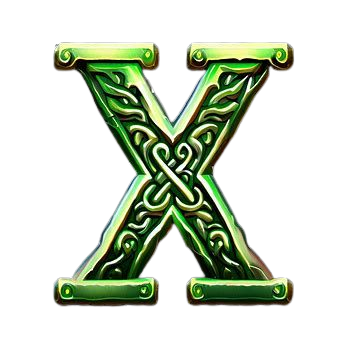
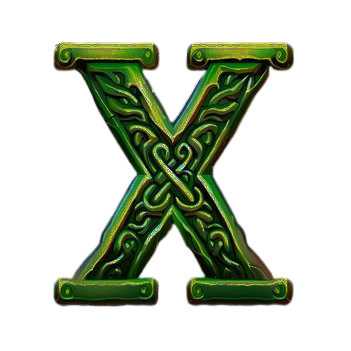
alter symbol colours

Changed region(s): [[0.1425, 0.114, 0.8262, 0.8547]]

diff --git a/src/code/backend/fakeAPI.ts b/src/code/backend/fakeAPI.ts
@@ -1,5 +1,5 @@
 import { BackendReelCalculator } from "./backendReelCalculator";
-import { Request, Response } from "../common/types";
+import { Request, Response, CheckReelResult, WinResult } from "../common/types";
 import { config } from "../common/config";
 import { slotSymbolMap, winMultiplierMap } from "../common/consts";
 
@@ -35,14 +35,15 @@ export class FakeAPI {
                     const reelIndexes = this.getNewReelPositions();
                     const win = this.checkForWin(reelIndexes, request.bet);
 
-                    const newBalance = this.balance - request.bet + win;
+                    const newBalance = this.balance - request.bet + win.totalCount;
                     this.balance = newBalance;
 
-                    response = {
+                    response = { // instead of passing reelIndexes, pass the visible symbols in a 2D array of SymbolReferences, which include symbol and the payline index
                         "action": "update",
                         "spin-result": {
                             "reelIndexes": reelIndexes,
-                            "win": win,
+                            "win": win.totalCount > 0 ? win.totalCount : undefined,
+                            "winningSymbolIndexes": win.totalCount > 0 ? win.winningSymbolIndexes : undefined,
                         },
                         "balance": newBalance,
                     }
@@ -74,7 +75,7 @@ export class FakeAPI {
     }
 
     // TDO: different symbols have different win multipliers
-    private checkForWin(reelIndexes: number[], bet: number): number { // test function
+    private checkForWin(reelIndexes: number[], bet: number): WinResult { // test function
         const reels: number[][] = this.reelCalculator.getVisibleSymbols(reelIndexes);
         reels.forEach((reel) => {
             console.log("");
@@ -85,10 +86,13 @@ export class FakeAPI {
         })
 
         let totalCount = 0;
+        let totalWinningSymbolIndexes: number[][] = [];
+
         for (let i = 0; i < reels[0].length; i++) {
             const symbol = reels[0][i];
             let count = 0;
             let fullReelIndex = 0;
+            let winningSymbolIndexes: number[][] = [];
 
             let skip = false;
             for (let k = 0; k < i; k++) {
@@ -104,9 +108,12 @@ export class FakeAPI {
             for (let j = 0; j < reels.length; j++) {
                 const reel = reels[j];
                 const result = this.checkReel(reel, symbol);
-                if (result > 0) {
-                    count += result;
+                if (result.count > 0) {
+                    count += result.count;
                     fullReelIndex = j;
+                    result.symbolIndex.forEach((symbolIndex) => {
+                        winningSymbolIndexes.push([symbolIndex]);
+                    });
                 } else {
                     break;
                 }
@@ -118,12 +125,10 @@ export class FakeAPI {
                 totalCount += count;
                 console.log("count * multiplier:", count);
 
-                // TODO: add the winning symbols to some array, to highlight them
-                // how are the winning symbols referenced?
+                totalWinningSymbolIndexes = totalWinningSymbolIndexes.concat(winningSymbolIndexes);
 
-                // by the reel and position on that reel?
-                // a 2d array with an array for each reel
-                // eg. [[0], [0], [1], [0, 2,]] would mean that the first reel has a winning symbol at position 0
+                // TODO: add the winning symbols to 2d array
+                // a 2d array of SymbolReference objects, where the object has a reel index and a payline index
             }
         }
 
@@ -131,16 +136,28 @@ export class FakeAPI {
 
         totalCount *= winMultiplier;
         console.log(totalCount);
-        return totalCount;        
+        console.log(totalWinningSymbolIndexes);
+
+        return {
+            totalCount: totalCount,
+            winningSymbolIndexes: totalWinningSymbolIndexes,    
+        } satisfies WinResult;   
     }
 
-    private checkReel(reel: number[], symbol: number): number {
+    private checkReel(reel: number[], symbol: number): CheckReelResult {
         let count = 0;
-        reel.forEach((reelSymbol) => {
-            if (reelSymbol === symbol) {
+        const winningSymbols: number[] = [];
+
+        for (let i = 0; i < reel.length; i++) {
+            if (reel[i] === symbol) {
                 count++;
+                winningSymbols.push(i);
             }
-        })
-        return count;
+        }
+
+        return {
+            count: count,
+            symbolIndex: winningSymbols,
+        } satisfies CheckReelResult;
     }
 }

diff --git a/src/code/components/slotMachine.ts b/src/code/components/slotMachine.ts
@@ -89,12 +89,47 @@ export class SlotMachine extends Container {
 
         //this.currentState = SlotMachineState.Spinning;
  
-        const reelIndexes = await this.requestSpin();
+        const updateResponse = await this.requestSpin();
+        const result = updateResponse["spin-result"];
+        const reelIndexes = result.reelIndexes;
         if (!reelIndexes) {
             return;
         }
 
         const reelSymbols = this.calculateReelSymbols(reelIndexes);
+
+        // TODO: pass win ammount to UI
+
+        const winningSymbolIndexes = result.winningSymbolIndexes;
+
+        // how to get reel to understand which symbols are winning?
+        // can pass in 2d array with undefined for non winning symbols
+        
+        // have to modify array before passing it to calculateReelSymbols
+
+        // how do you let reel know if there are multiple winning lines?
+        // In that case, the lines need to pulsate in alternation
+        // so they need to be stored separately
+
+        // in that case, you can have a Symbol Class
+        // that has a winning line index
+        // and a winning line index can be undefined
+
+        // type Symbol {
+            // symbol: number;
+            // winningLineIndex: number | undefined;
+        //}
+
+        // you pass reel an array of symbols
+
+
+
+        // for each reel symbol, you check if it is in a winning line
+        // create a new symbol object with the winning line index
+        // push that to the new array
+
+
+        // TODO: pass in winning symbols
         this.reels.forEach((reel, index) => {
             reel.spin(reelSymbols[index]);
         });
@@ -119,7 +154,7 @@ export class SlotMachine extends Container {
         return reelSymbols;
     }
 
-    private async requestSpin(): Promise<number[]> {  
+    private async requestSpin(): Promise<UpdateResponse> {  
         const request: Request = {
             action: "spin",
             "bet": this.bet,
@@ -132,8 +167,7 @@ export class SlotMachine extends Container {
         }
 
         const updateResponse = response as UpdateResponse;
-        const result = updateResponse["spin-result"];
-        return result.reelIndexes;
+        return updateResponse;
     }
 
     private areReelsStopped() {
@@ -157,3 +191,9 @@ export class SlotMachine extends Container {
 // Where to implement highlighting of winning symbols? (and dimming of non-winning symbols)
 
 // where to implement the other UI logic?
+
+type SymbolReference = {
+    symbol: number;
+    winningLineIndex: number | undefined;
+}
+

diff --git a/src/code/assets.ts b/src/code/assets.ts
@@ -7,15 +7,15 @@ export const manifest: ResolverManifest = {
             assets: {
                 1: "assets/images/symbols/symbol1.png",     // princess
                 2: "assets/images/symbols/symbol2.png",     // warrior
-                3: "assets/images/symbols/symbol3.png",     // и
+                3: "assets/images/symbols/symbol3_darker.png",     // и
                 4: "assets/images/symbols/symbol4.png",     // jem
                 5: "assets/images/symbols/symbol5.png",     // axe
-                6: "assets/images/symbols/symbol6.png",     // P
+                6: "assets/images/symbols/symbol6_darker2.png",     // P
                 7: "assets/images/symbols/symbol7.png",     // horns
                 8: "assets/images/symbols/symbol8.png",     // я
-                9: "assets/images/symbols/symbol9.png",     // T
-                10: "assets/images/symbols/symbol10.png",   // X
-                11: "assets/images/symbols/symbol11.png",   // C
+                9: "assets/images/symbols/symbol9_darker4.png",     // T
+                10: "assets/images/symbols/symbol10_blue.png",   // X
+                11: "assets/images/symbols/symbol11_darker2.png",   // C
                 12: "assets/images/symbols/symbol12.png",   // king
                 13: "assets/images/symbols/symbol13.png",   // H
                 14: "assets/images/symbols/symbol14.png",   // emerald

diff --git a/src/code/common/types.ts b/src/code/common/types.ts
@@ -17,7 +17,8 @@ export type UpdateResponse = {
     "action": "update",
     "spin-result": {
         "reelIndexes": number[],
-        "win": number,
+        "win"?: number,
+        "winningSymbolIndexes"?: number[][],
     },
     "balance": number,
 }
@@ -64,4 +65,19 @@ export enum SlotMachineState {
 
 export type SymbolBundle = {
     [key: string]: Texture;
+}
+
+export type CheckReelResult = {
+    count: number,
+    symbolIndex: number[],
+};
+
+export type WinResult = {
+    totalCount: number,
+    winningSymbolIndexes: number[][],
+};
+
+type SymbolReference = {
+    symbol: number;
+    winningLineIndex: number | undefined;
 }
